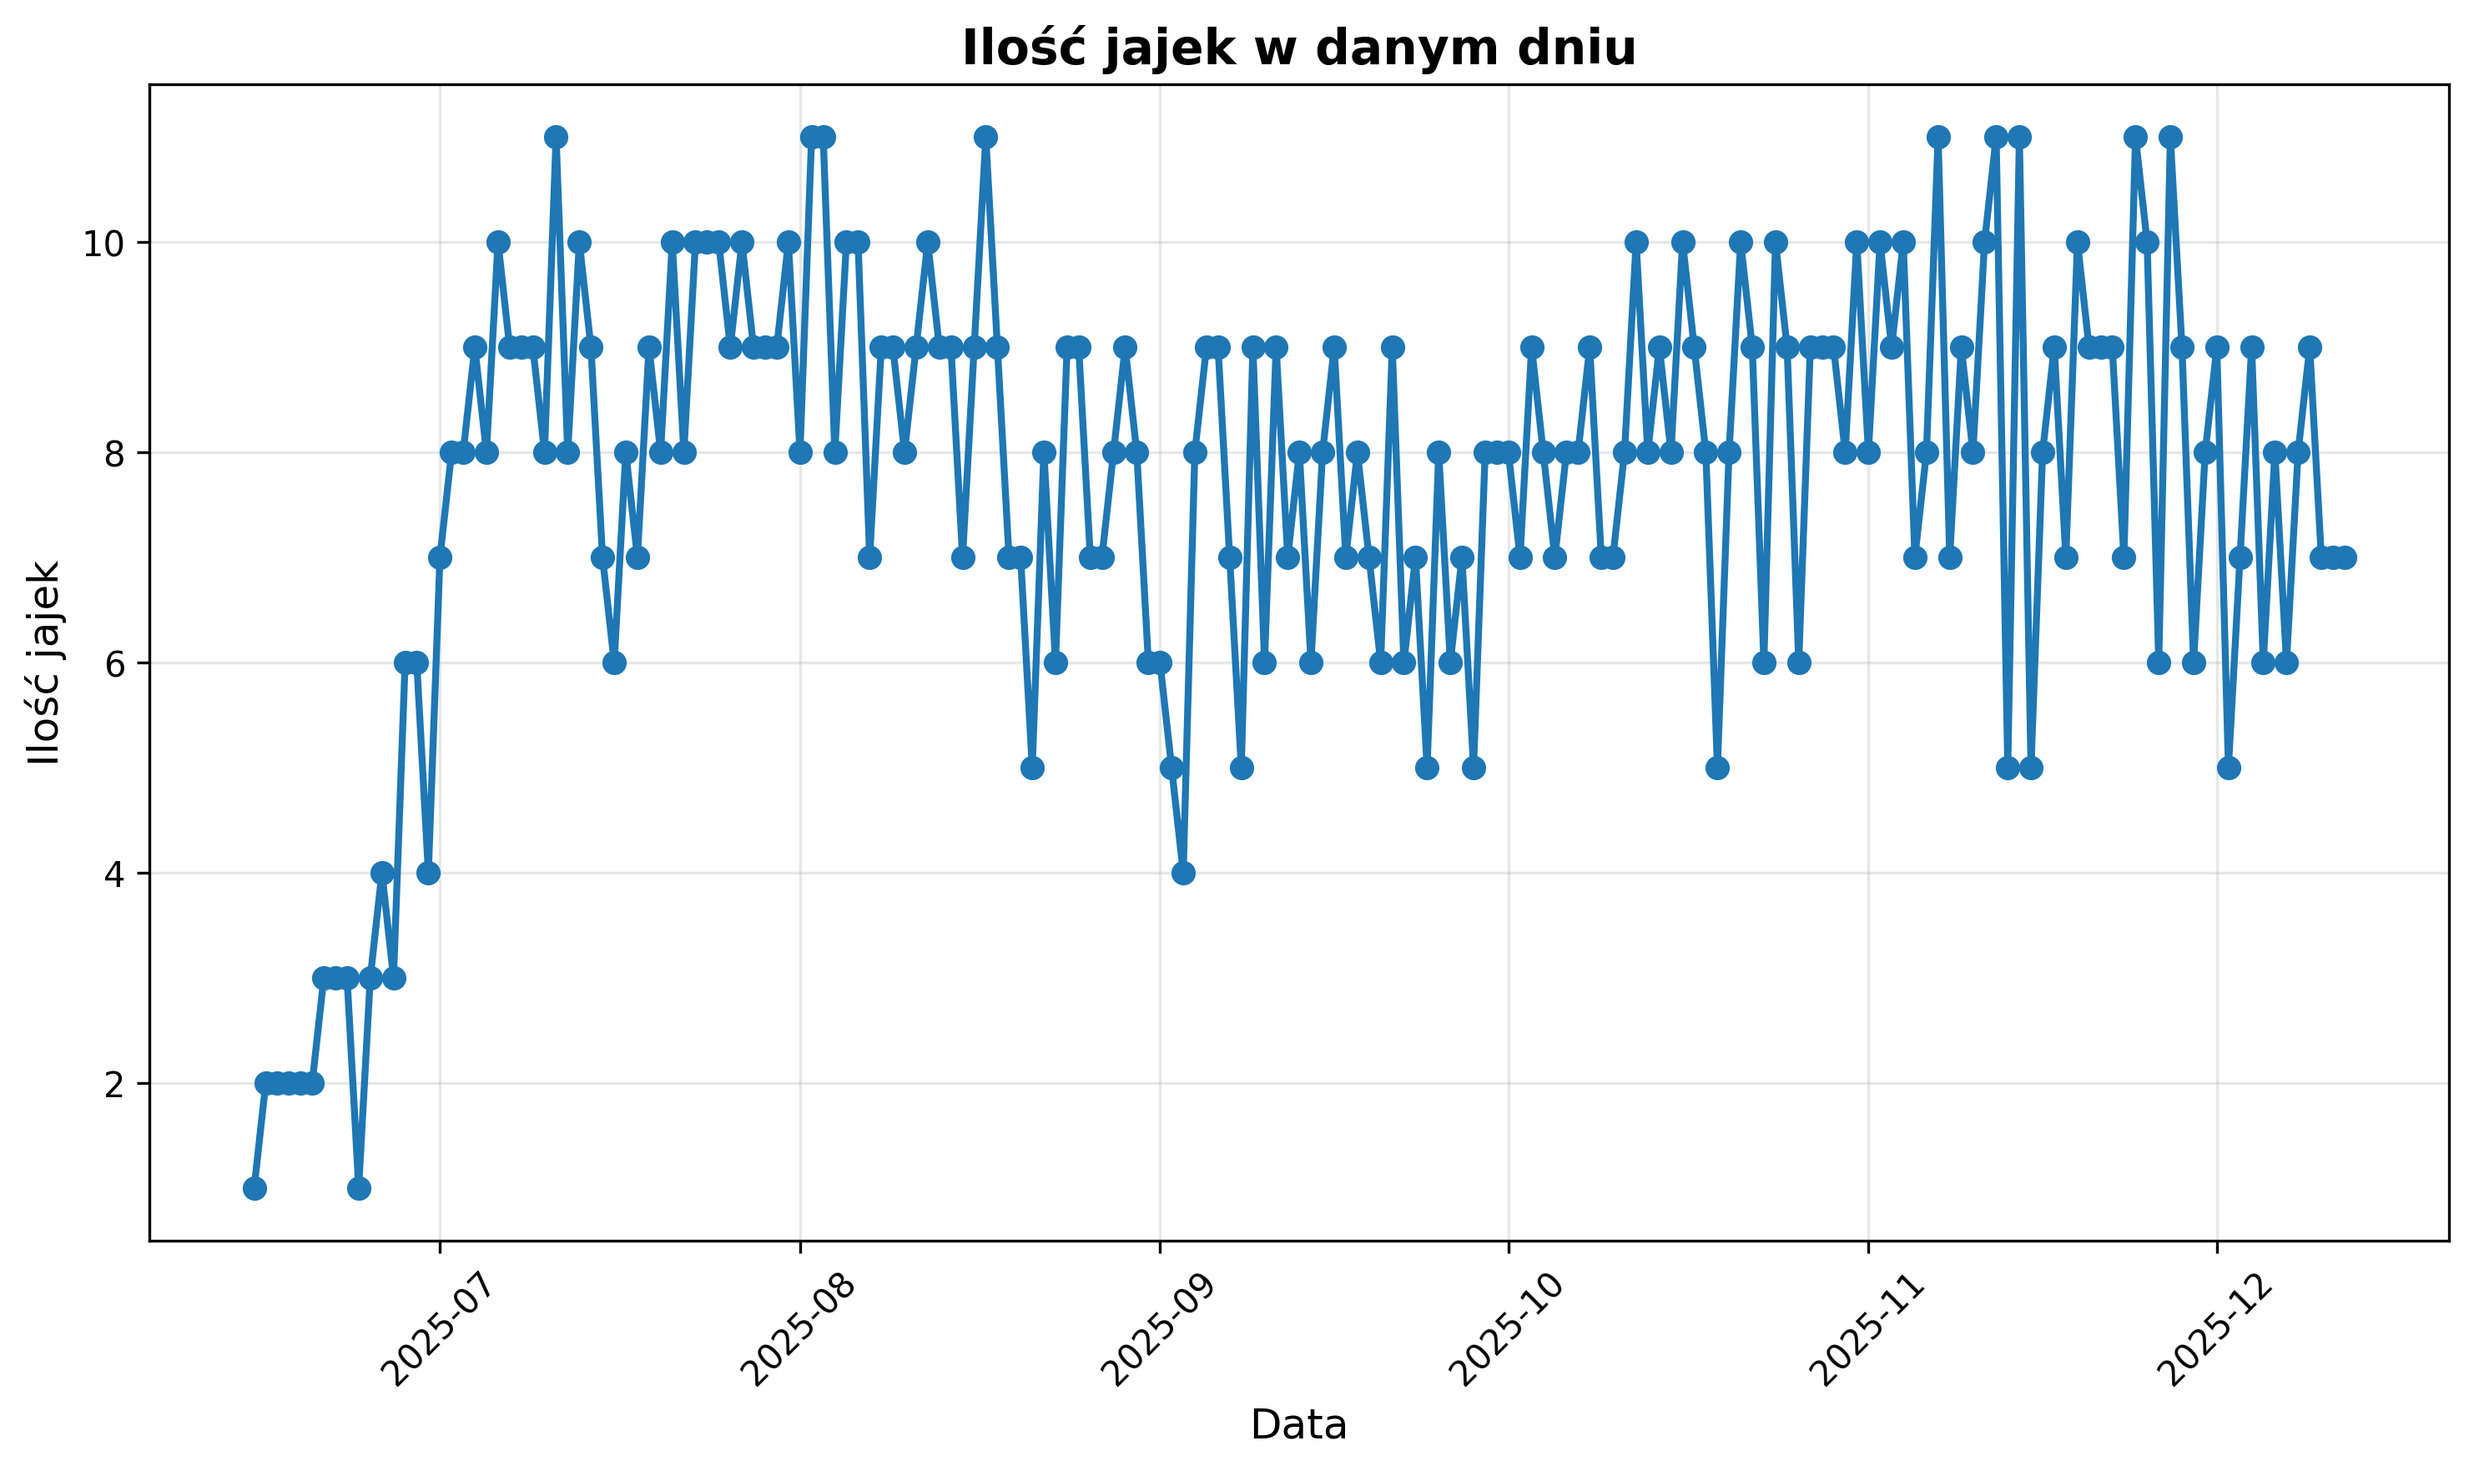
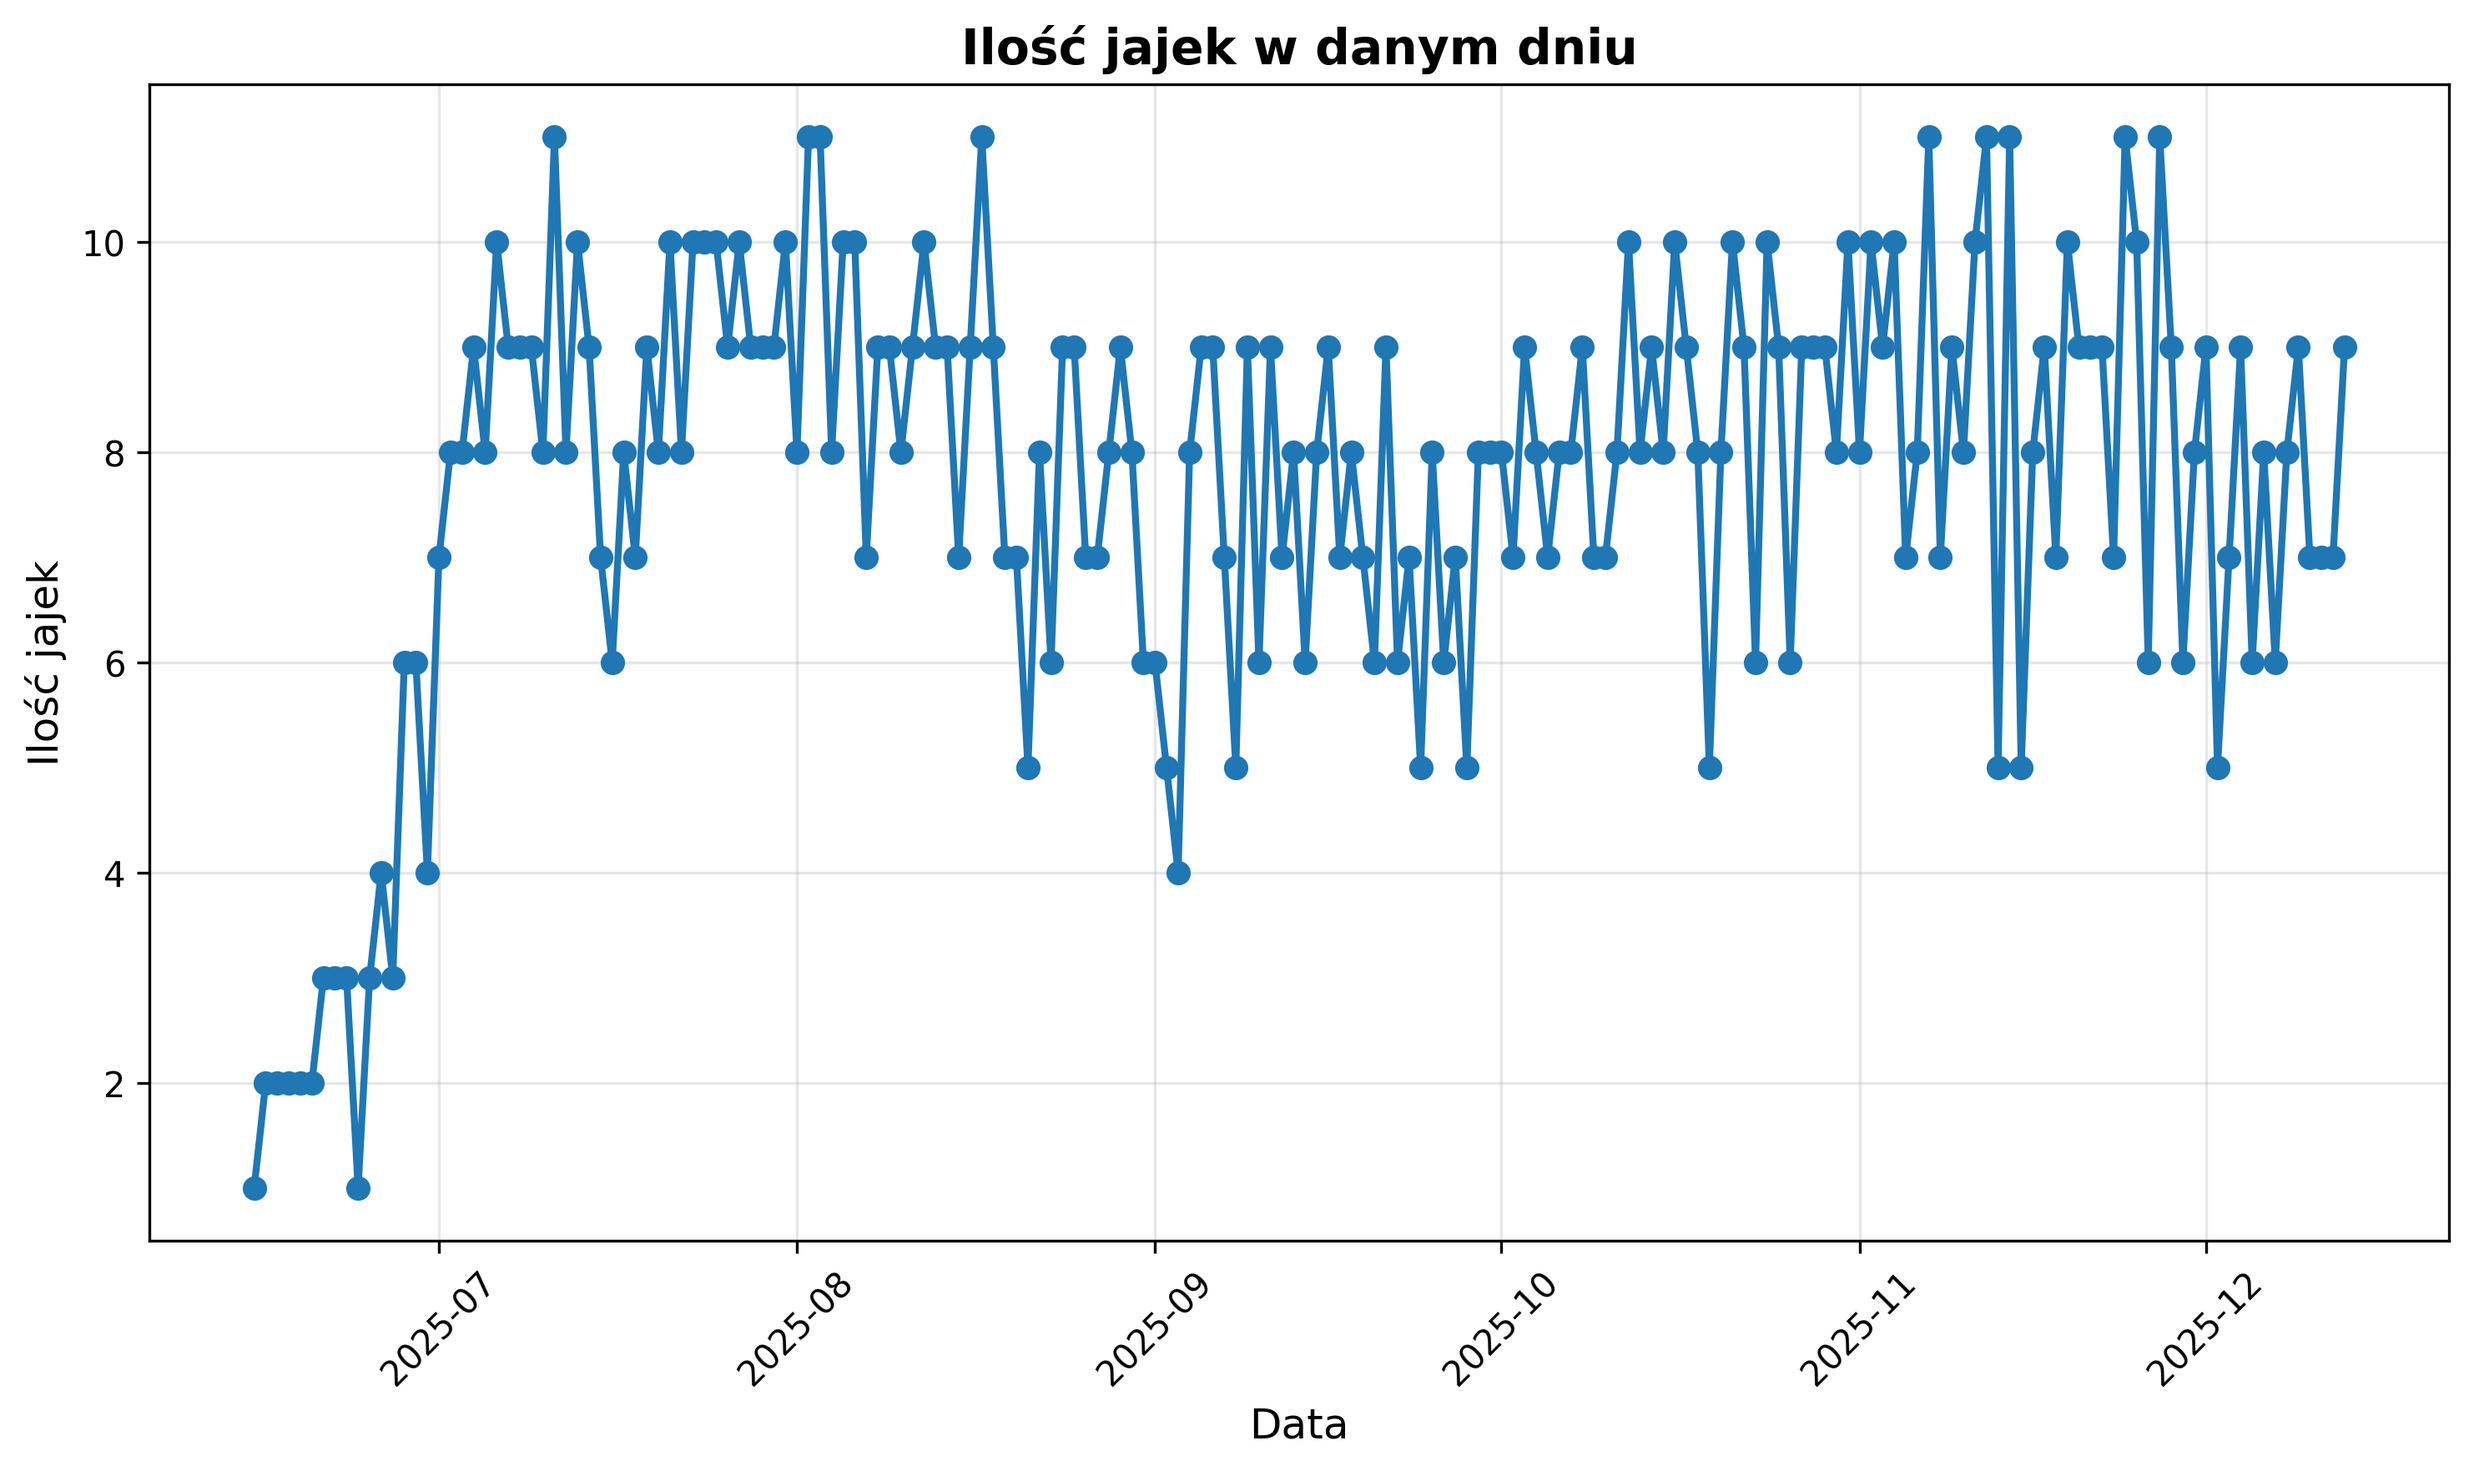
Chart update

diff --git a/jajka.html b/jajka.html
@@ -7,7 +7,7 @@
 </head>
 <body>
     <div style="font-size: 20px; font-style: italic;">Ostatnia aktualizacja:</div>
-    <div style="font-size: 18px; font-style: italic; color: red;">2025-12-12 16:34:41</div>
+    <div style="font-size: 18px; font-style: italic; color: red;">2025-12-13 17:09:33</div>
     <img src="img/chart.png" alt="" style="width: 100vw; height: 100vh; object-fit: contain; display: block; margin: 0 auto; position: absolute; top: 50%; left: 50%; transform: translate(-50%, -50%);">
 </body>
 </html>
